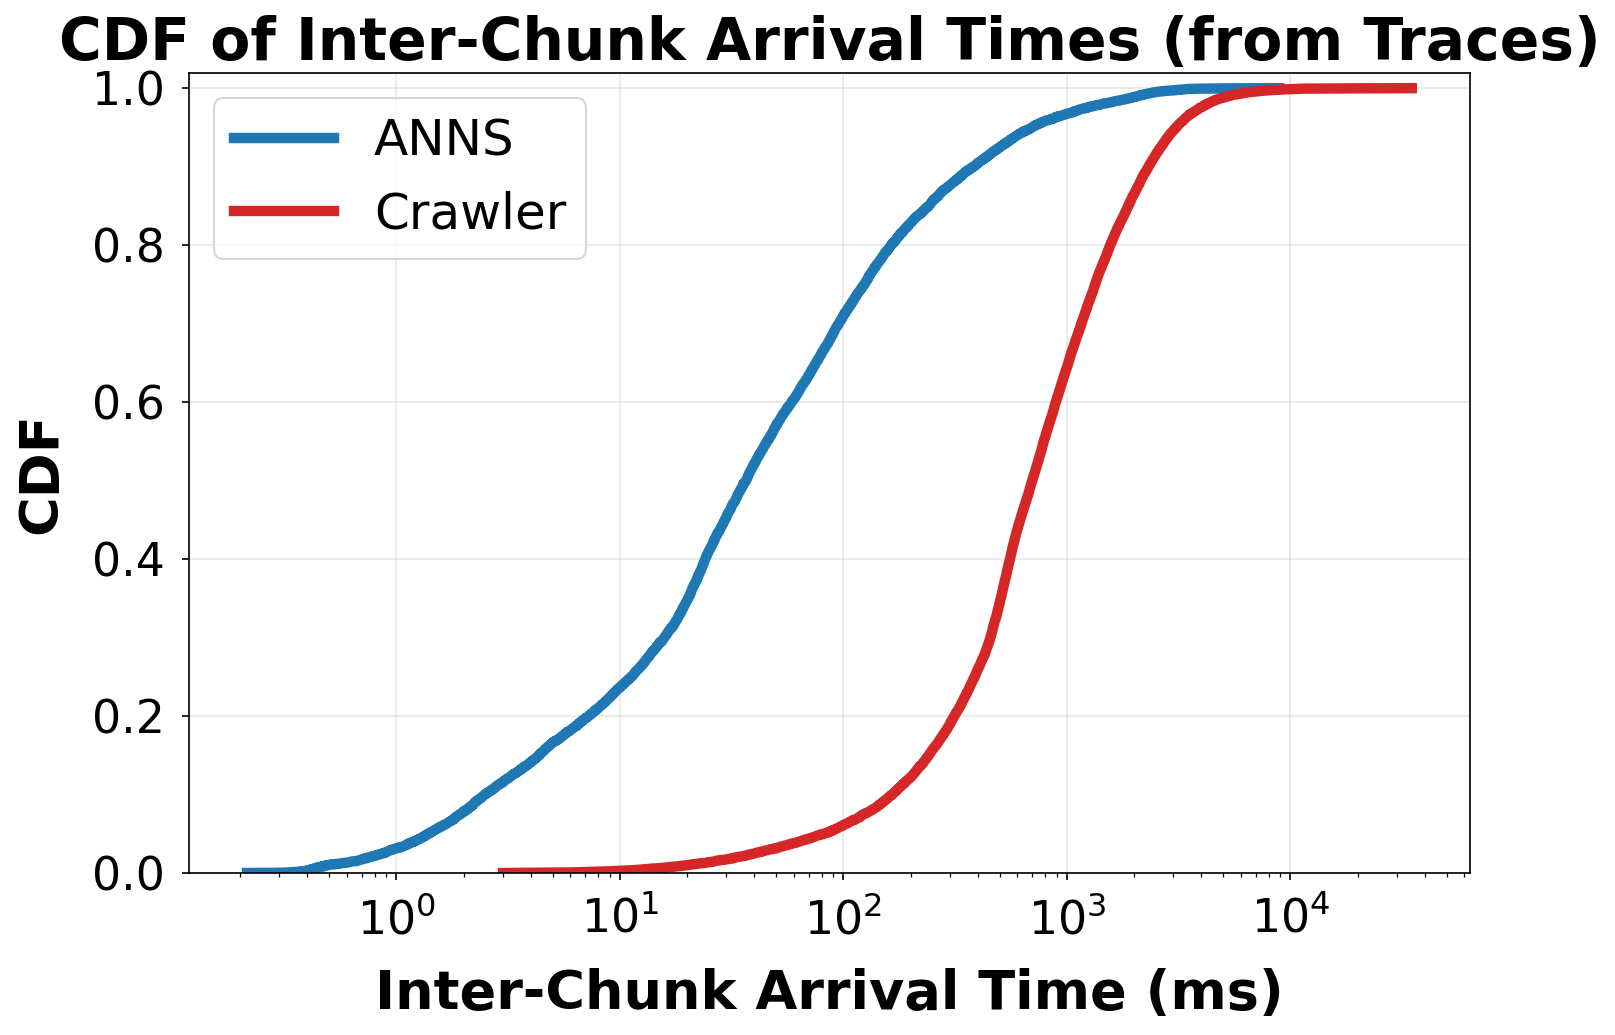
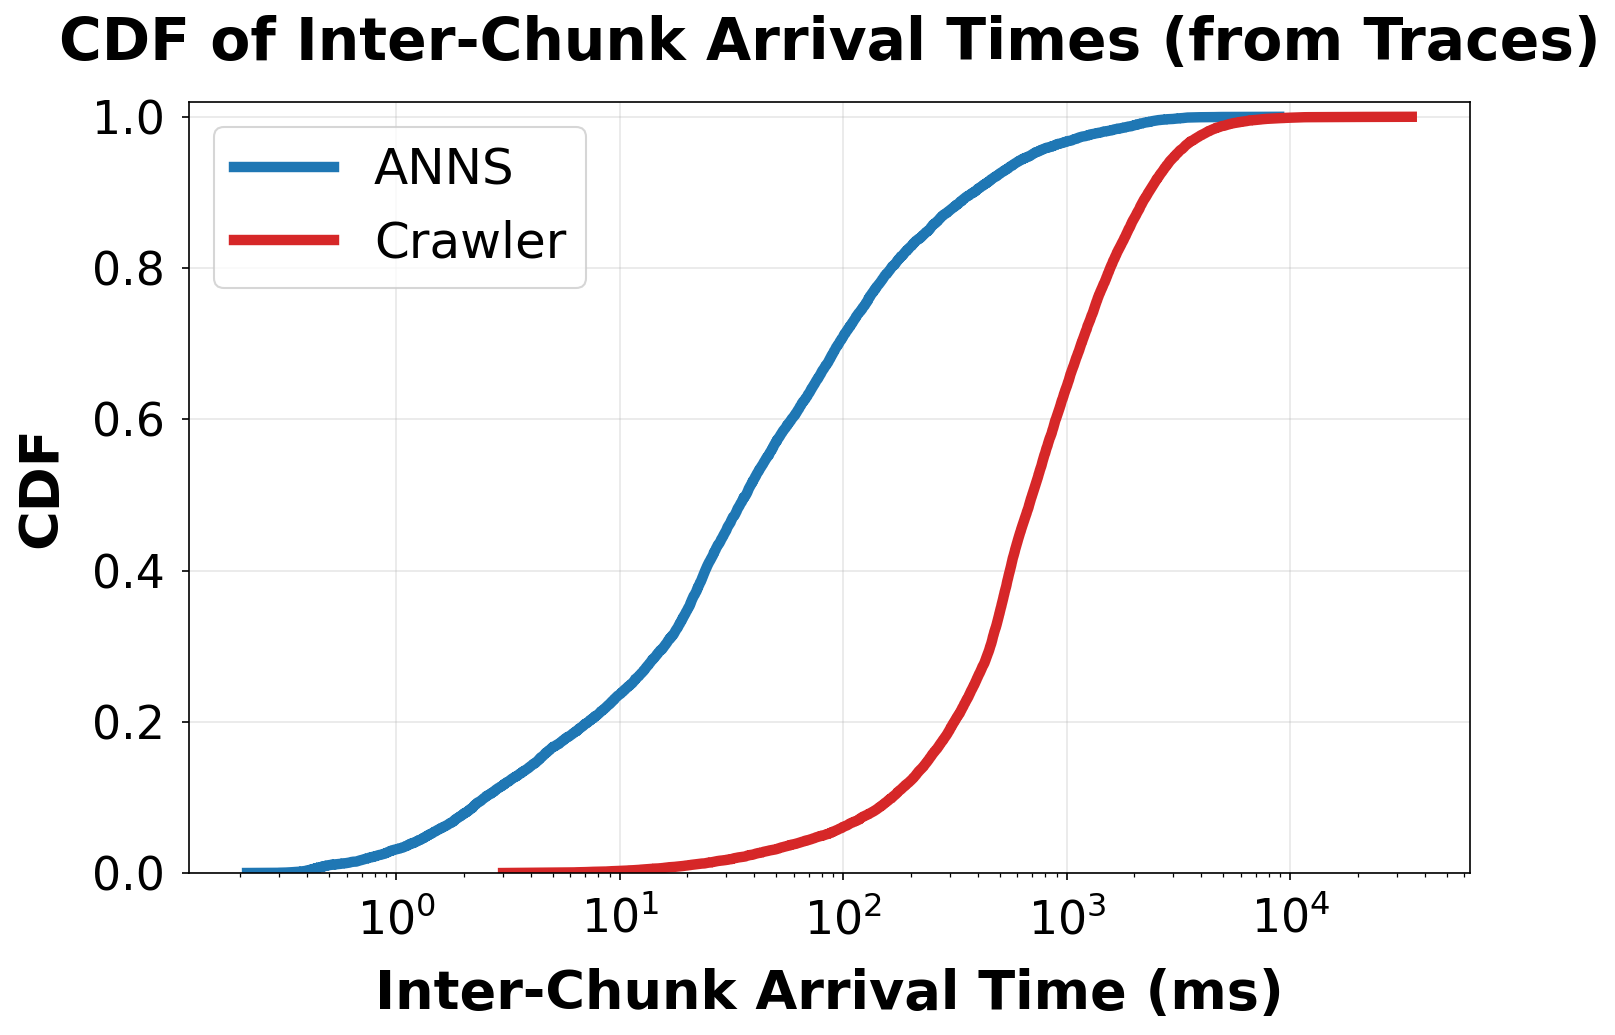
Add title padding to chunk arrival CDF plot

diff --git a/scripts/utils/analysis/chunk_arrival_characterization.py b/scripts/utils/analysis/chunk_arrival_characterization.py
@@ -183,7 +183,7 @@ def main():
     ax.set_xscale("log")
     ax.set_xlabel("Inter-Chunk Arrival Time (ms)", fontsize=LABEL_SIZE, fontweight='bold', labelpad=LABEL_PAD)
     ax.set_ylabel("CDF", fontsize=LABEL_SIZE, fontweight='bold', labelpad=LABEL_PAD)
-    ax.set_title("CDF of Inter-Chunk Arrival Times (from Traces)", fontsize=TITLE_SIZE, fontweight='bold')
+    ax.set_title("CDF of Inter-Chunk Arrival Times (from Traces)", fontsize=TITLE_SIZE, fontweight='bold', pad=20)
     ax.legend(fontsize=LEGEND_SIZE)
     ax.tick_params(axis='both', which='major', labelsize=TICK_SIZE, pad=TICK_PAD)
     ax.grid(True, alpha=0.3)
